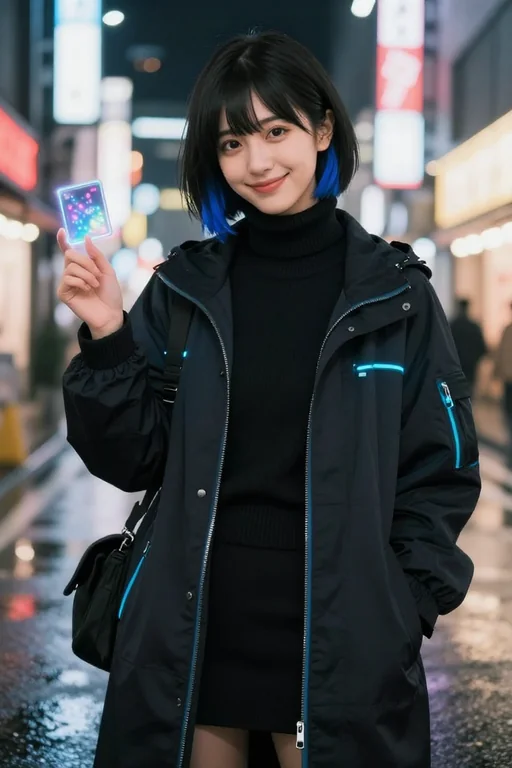
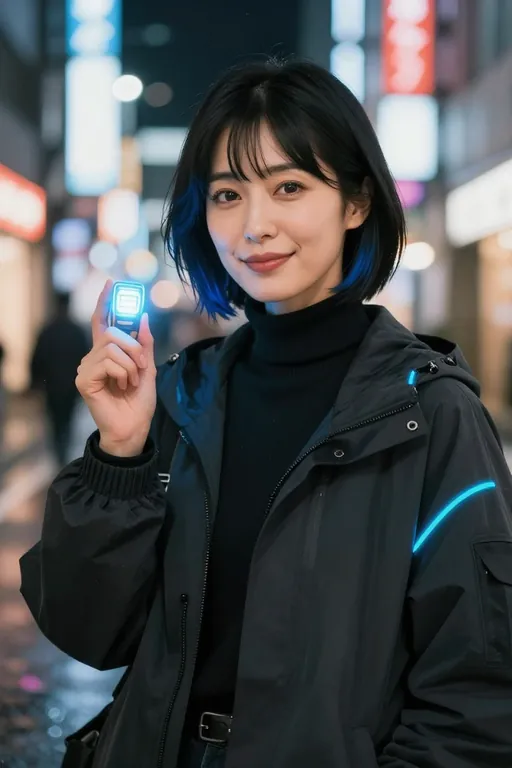
Replace the ranger and pirate starters with a language tutor

diff --git a/studio/backend/tests/test_characters.py b/studio/backend/tests/test_characters.py
@@ -585,6 +585,10 @@ def test_starter_characters_arrive_once_with_portraits_and_stay_deleted(client):
     full = client.get(f"/api/characters/{rin['id']}").json()
     assert full["firstMes"] and full["alternateGreetings"] and full["characterBook"]["entries"]
     assert client.get(f"/api/characters/{rin['id']}/avatar").headers["content-type"] == "image/webp"
+    # The tutor replaces the roleplay instructions with its own.
+    leo = next(c for c in starters if c["name"] == "Leo Marsh")
+    tutor = client.get(f"/api/characters/{leo['id']}").json()
+    assert "language tutor" in tutor["systemPrompt"] and tutor["postHistoryInstructions"]
 
     # A second load adds nothing, and a deleted starter does not come back.
     assert client.delete(f"/api/characters/{rin['id']}").status_code == 204

diff --git a/studio/backend/core/characters/starters.py b/studio/backend/core/characters/starters.py
@@ -18,7 +18,7 @@ from storage import characters_db as db
 logger = logging.getLogger(__name__)
 
 STARTER_DIR = Path(__file__).resolve().parents[2] / "assets" / "characters"
-STARTERS = ("rhys-calloway", "rin-takeda", "elara-voss")
+STARTERS = ("leo-marsh", "rin-takeda")
 
 
 def seed_starters() -> None:
